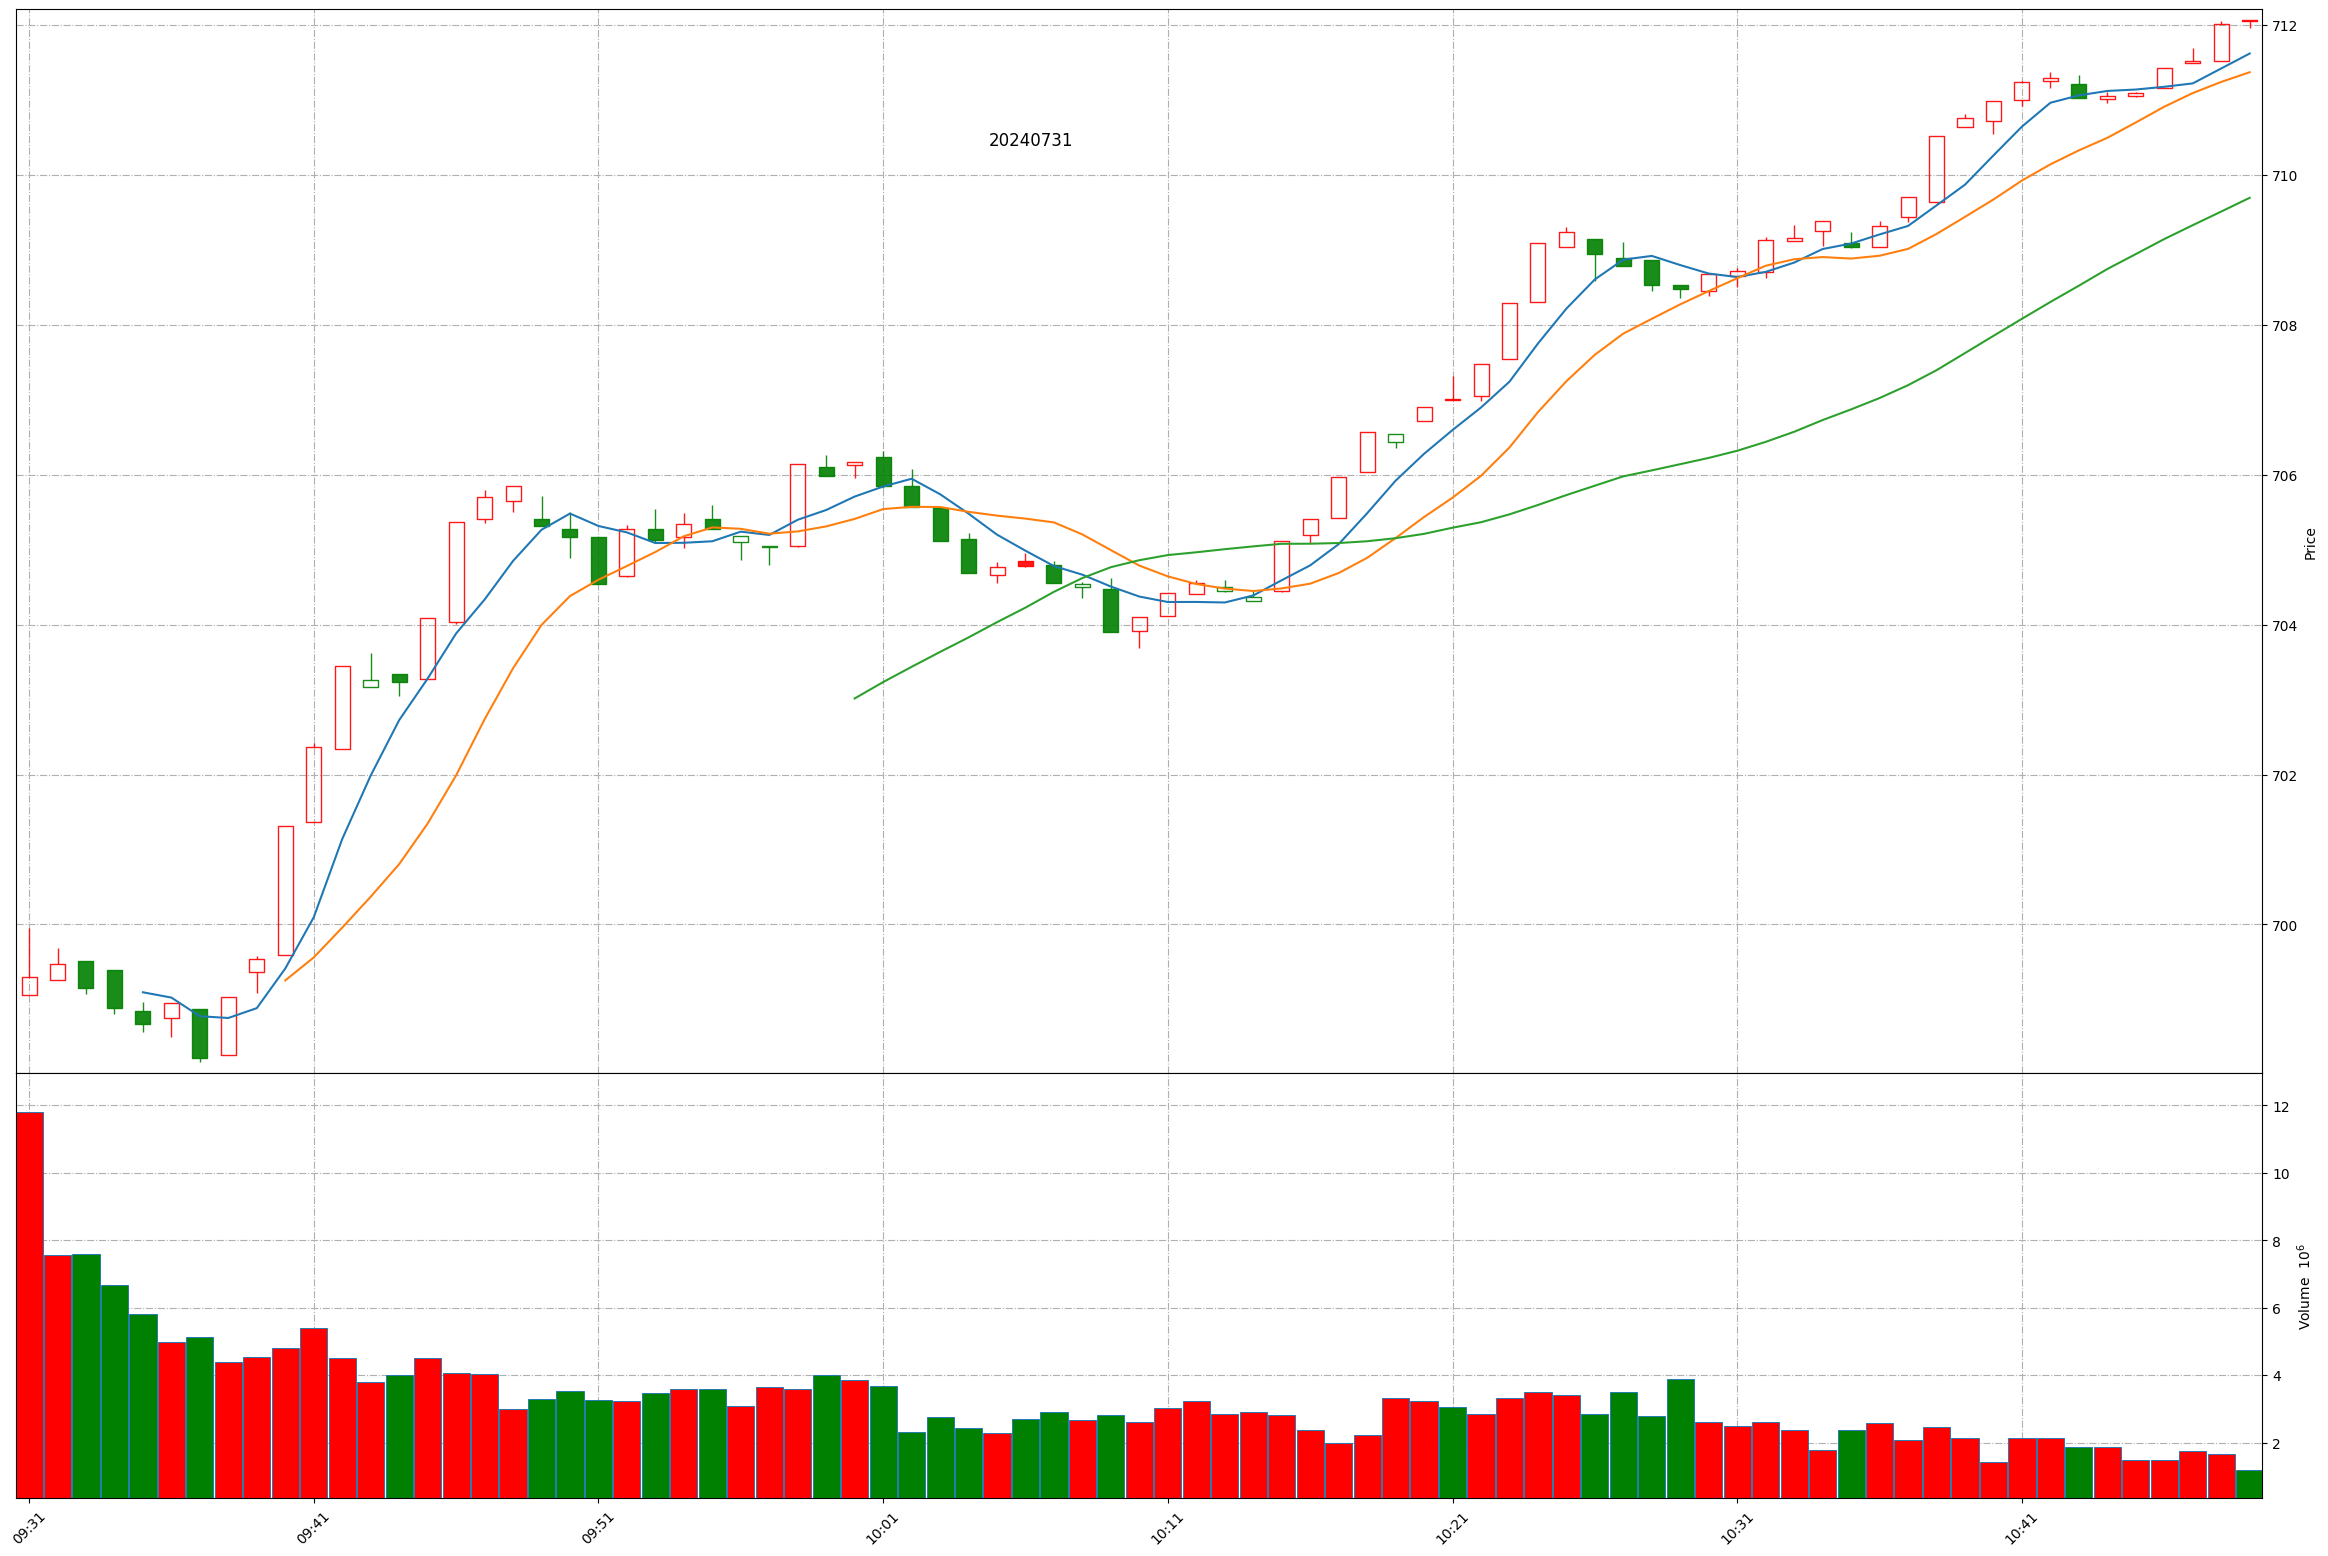
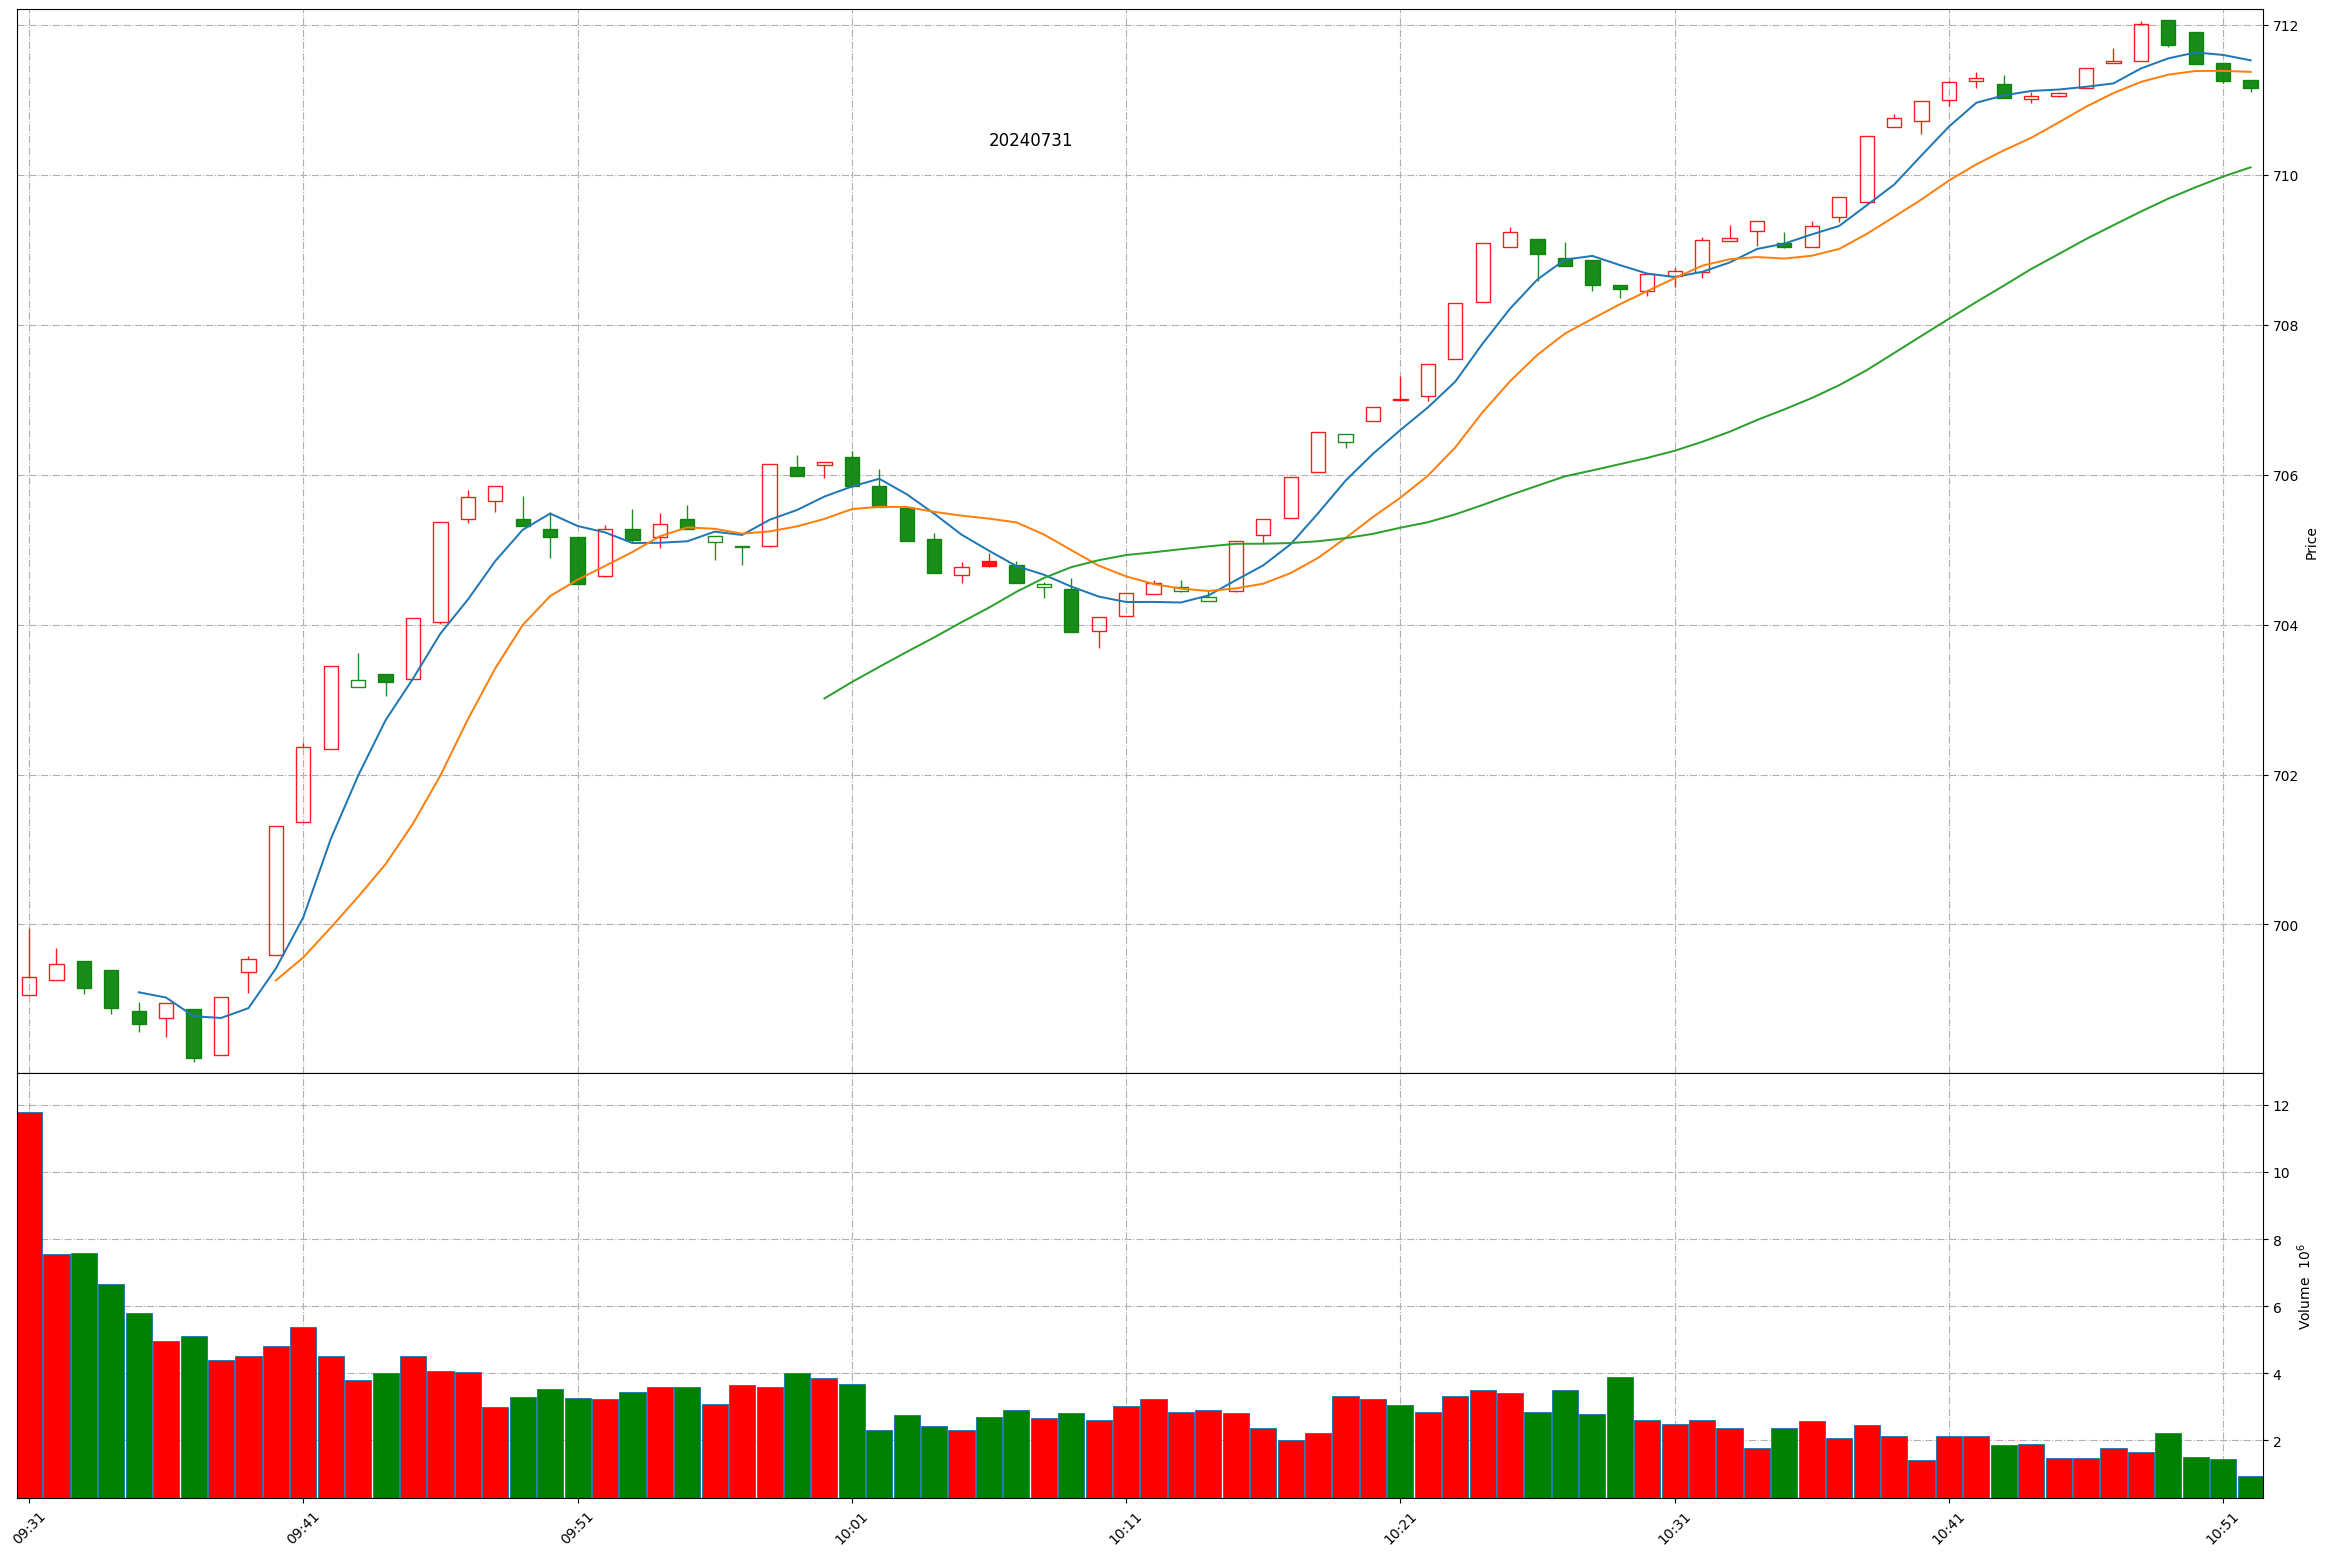
Github action update at 2024-07-31 10:51:40.

diff --git a/README.md b/README.md
@@ -1,11 +1,11 @@
 
 # Daily-A-share-market-quotes 每日 A 股指数（5min 更新）- 20240731
 
-### 上证指数 20240731 10:48
+### 上证指数 20240731 10:51
 ![](./fig/2024/7/20240731-sh000001.png)
 
-### 深证成指 20240731 10:48
+### 深证成指 20240731 10:51
 ![](./fig/2024/7/20240731-sz399001.png)
 
-### 北证50 20240731 10:48
+### 北证50 20240731 10:51
 ![](./fig/2024/7/20240731-bj899050.png)
